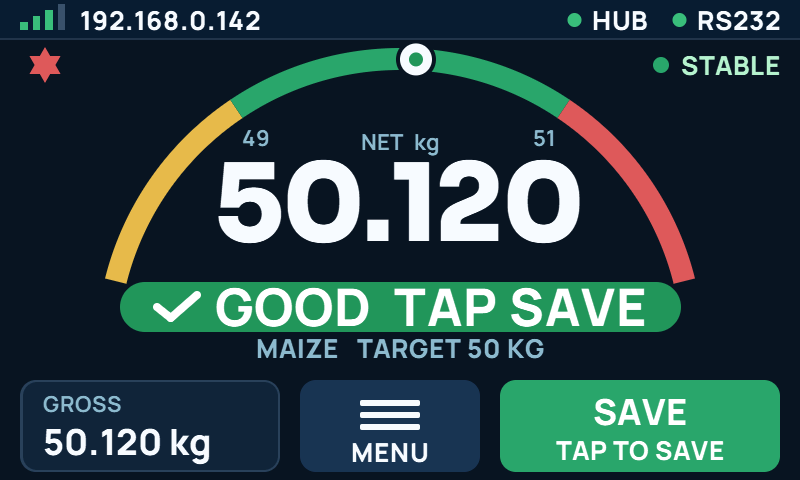
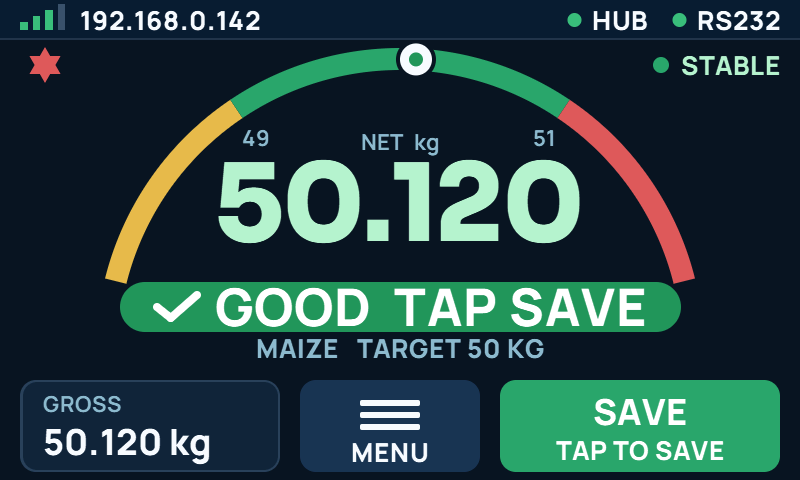
feat(wsoft): light mode in the brand colours; the dial's weight takes its zone tint
Rhyno, 22 Nov 2026. Light theme from the Weighsoft brand palette (Paper,
Bunting, Slate, Sky-200, the reserved status colours); the status bar is
Bunting on the light screen. Notice bands use the zone fill and its ink,
so white letters sit on the brand amber. Dark screens are unchanged.

Claude-Session: https://claude.ai/code/session_017CMFYso2TL2A6k5GrQCT9v

Changed region(s): [[0.25, 0.3125, 0.75, 0.5312]]

diff --git a/interface/src/project/wsoft/gen/wsoftScreen.js b/interface/src/project/wsoft/gen/wsoftScreen.js
@@ -105,14 +105,19 @@ const WsoftUi = (() => {
       ok: '#2fa46c', ok_ink: '#b7f0cd', wait: '#e2b84a', wait_ink: '#f3d48a', bad: '#dc5a5a', bad_ink: '#ffb4b4',
       chip_ok: mixHex('#0b1620', '#2fa46c', 0.18), chip_bad: mixHex('#0b1620', '#dc5a5a', 0.18),
       accent: '#2596be', btn: '#1e3654', btn_ink: '#f5f8fa', stop: '#c94545', pointer: '#f5f8fa',
-      z_low: '#e2b84a', z_low_ink: '#1a2a33', z_ok: '#23965f', z_ok_ink: '#ffffff', z_high: '#c94545', z_high_ink: '#ffffff' },
-    light: { bg: '#eef2f5', panel: '#ffffff', line: '#b4c0c8', ink: '#1a2a33', soft: '#4a6570',
-      ok: '#15a34a', ok_ink: '#14532d', wait: '#e0a021', wait_ink: '#7a4d00', bad: '#dc2626', bad_ink: '#7f1d1d',
-      chip_ok: mixHex('#eef2f5', '#15a34a', 0.18), chip_bad: mixHex('#eef2f5', '#dc2626', 0.18),
-      accent: '#176685', btn: '#d3dce3', btn_ink: '#1a2a33', stop: '#dc2626', pointer: '#0f1e33',
-      z_low: '#e9b227', z_low_ink: '#1a2a33', z_ok: '#15a34a', z_ok_ink: '#ffffff', z_high: '#dc2626', z_high_ink: '#ffffff' },
+      z_low: '#e2b84a', z_low_ink: '#1a2a33', z_ok: '#23965f', z_ok_ink: '#ffffff', z_high: '#c94545', z_high_ink: '#ffffff',
+      bar: '#0f1e33', bar_line: '#24354d' },
+    // Light mode follows the Weighsoft brand palette (Rhyno, 22 Nov 2026; repo-review brand.md):
+    // Paper ground, white cards, Bunting ink, Slate second ink, Line dividers, Sky-200 buttons,
+    // Curious Deep accent, and the reserved status colours with their tints.
+    light: { bg: '#F7F8FC', panel: '#FFFFFF', line: '#DCDAE8', ink: '#1B1446', soft: '#4A4568',
+      ok: '#15803D', ok_ink: '#14532d', wait: '#B45309', wait_ink: '#7a3c06', bad: '#B60205', bad_ink: '#7f1d1d',
+      chip_ok: '#DCFCE7', chip_bad: '#FEE2E2',
+      accent: '#1174A8', btn: '#BCE2F5', btn_ink: '#1B1446', stop: '#B60205', pointer: '#1B1446',
+      z_low: '#B45309', z_low_ink: '#ffffff', z_ok: '#15803D', z_ok_ink: '#ffffff', z_high: '#B60205', z_high_ink: '#ffffff',
+      bar: '#1B1446', bar_line: '#27246B' },
   };
-  // The status bar is navy in both modes.
+  // The status bar is dark in both modes (navy, or the brand's Bunting on the light screen): its inks are these.
   const BAR_HEX = { bg: '#0f1e33', line: '#24354d', ink: '#f5f8fa', mute: '#8fb8c8', dim: '#3a506b', ok: '#3dbe78', bad: '#ff8a8a', warn: '#f2c879' };
   const to565 = (o) => Object.fromEntries(Object.entries(o).map(([k, v]) => [k, c565(v)]));
   const THEME = { dark: to565(THEME_HEX.dark), light: to565(THEME_HEX.light) };
@@ -340,18 +345,18 @@ const WsoftUi = (() => {
   // The band over the trade row: the Wi-Fi alert or a save notice. False when there is none.
   function paintSlot(c, m, T) {
     if (m.slot === SLOT_WIFI) {
-      c.rect(6, 22, 308, 40, T.wait, 8);
-      c.text('WI-FI IS OFF', 18, 42, MID, DARK, LEFT);
+      c.rect(6, 22, 308, 40, T.z_low, 8);
+      c.text('WI-FI IS OFF', 18, 42, MID, T.z_low_ink, LEFT);
       c.rect(160, 26, 100, 32, DARK, 6);
       c.text('CONNECT', 210, 42, SMALL, WHITE, CENTER);
       c.rect(266, 26, 42, 32, DARK, 6);
-      c.rect(267.5, 27.5, 39, 29, T.wait, 5);
-      c.text('X', 287, 42, MID, DARK, CENTER);
+      c.rect(267.5, 27.5, 39, 29, T.z_low, 5);
+      c.text('X', 287, 42, MID, T.z_low_ink, CENTER);
       return true;
     }
     if (m.slot !== SLOT_NONE) {
-      const stop = m.slot === SLOT_STOP, ink = stop ? WHITE : DARK;
-      c.rect(6, 22, 308, 40, stop ? T.stop : T.wait, 8);
+      const stop = m.slot === SLOT_STOP, ink = stop ? WHITE : T.z_low_ink;
+      c.rect(6, 22, 308, 40, stop ? T.stop : T.z_low, 8);
       if (c.width(m.slot_title, BIG) <= 292) c.text(m.slot_title, 160, 34, BIG, ink, CENTER);
       else c.text(c.fit(m.slot_title, MID, 296), 160, 34, MID, ink, CENTER);
       c.text(c.fit(m.slot_detail, SMALL, 296), 160, 53, SMALL, ink, CENTER);
@@ -647,7 +652,9 @@ const WsoftUi = (() => {
     c.rect(0, 62, 320, 60, T.bg, 0);
     paintDial(c, m, T);
     c.text(m.label + '  ' + m.unit, 160, 71, TINY, T.soft, CENTER);
-    c.text(m.weight, 160, 100, c.width(m.weight, HERO) <= 200 ? HERO : BIG, m.live ? T.ink : T.soft, CENTER);
+    // The number takes a soft tint of its zone (Rhyno, 22 Nov 2026).
+    const ink = !m.live ? T.soft : m.zone === ZONE_LOW ? T.wait_ink : m.zone === ZONE_OK ? T.ok_ink : m.zone === ZONE_HIGH ? T.bad_ink : T.ink;
+    c.text(m.weight, 160, 100, c.width(m.weight, HERO) <= 200 ? HERO : BIG, ink, CENTER);
   }
 
   function paintHiloDial(c, m, T) {
@@ -759,7 +766,7 @@ const WsoftUi = (() => {
     c.clip(ROWS[row][0], ROWS[row][1]);
     if (row === ROW_BAR) {
       if (style === STYLE_COLOUR && m.zone !== ZONE_NONE) { const bg = colourSet(m, T).bar; paintBar(c, m, bg, bg); }
-      else paintBar(c, m, BAR.bg, BAR.line);
+      else paintBar(c, m, T.bar, T.bar_line);
     } else if (row === ROW_TOP) {
       if (style === STYLE_COLOUR) paintTopColour(c, m, T); else if (style === STYLE_DIAL) paintTopDial(c, m, T); else paintTop(c, m, T);
     } else if (row === ROW_WEIGHT) {
@@ -967,6 +974,8 @@ const WsoftUi = (() => {
     ['Full Colour, saved', 'DONE, and take it off.', state({ style: STYLE_COLOUR, save: { recent: { result: 'SAVED', seq: 8 } }, waiting: 'ALREADY' })],
     ['Dial, saved', 'DONE, and take it off.', state({ style: STYLE_DIAL, save: { recent: { result: 'SAVED', seq: 8 } }, waiting: 'ALREADY' })],
     ['Dial, Auto save off', 'GOOD, and tap SAVE.', state({ style: STYLE_DIAL, save: { auto: false } })],
+    ['Light mode, too low with a notice', 'The brand colours: the amber band and panel carry white letters.', state({ dark: false, gross: 47350, waiting: 'OUT_OF_LIMITS' })],
+    ['Light mode, Wi-Fi drops', 'The alert in the brand amber.', state({ dark: false, wifi: { up: false } })],
     ['Dial, six figures', 'A long weight drops to the smaller letters.', state({ style: STYLE_DIAL, gross: 982760, decimals: 0, product: { name: 'Maize', low: 980000, target: 982000, high: 984000 } })],
   ];
 

diff --git a/tools/wsoft-ui/ref.js b/tools/wsoft-ui/ref.js
@@ -103,14 +103,19 @@ const WsoftUi = (() => {
       ok: '#2fa46c', ok_ink: '#b7f0cd', wait: '#e2b84a', wait_ink: '#f3d48a', bad: '#dc5a5a', bad_ink: '#ffb4b4',
       chip_ok: mixHex('#0b1620', '#2fa46c', 0.18), chip_bad: mixHex('#0b1620', '#dc5a5a', 0.18),
       accent: '#2596be', btn: '#1e3654', btn_ink: '#f5f8fa', stop: '#c94545', pointer: '#f5f8fa',
-      z_low: '#e2b84a', z_low_ink: '#1a2a33', z_ok: '#23965f', z_ok_ink: '#ffffff', z_high: '#c94545', z_high_ink: '#ffffff' },
-    light: { bg: '#eef2f5', panel: '#ffffff', line: '#b4c0c8', ink: '#1a2a33', soft: '#4a6570',
-      ok: '#15a34a', ok_ink: '#14532d', wait: '#e0a021', wait_ink: '#7a4d00', bad: '#dc2626', bad_ink: '#7f1d1d',
-      chip_ok: mixHex('#eef2f5', '#15a34a', 0.18), chip_bad: mixHex('#eef2f5', '#dc2626', 0.18),
-      accent: '#176685', btn: '#d3dce3', btn_ink: '#1a2a33', stop: '#dc2626', pointer: '#0f1e33',
-      z_low: '#e9b227', z_low_ink: '#1a2a33', z_ok: '#15a34a', z_ok_ink: '#ffffff', z_high: '#dc2626', z_high_ink: '#ffffff' },
+      z_low: '#e2b84a', z_low_ink: '#1a2a33', z_ok: '#23965f', z_ok_ink: '#ffffff', z_high: '#c94545', z_high_ink: '#ffffff',
+      bar: '#0f1e33', bar_line: '#24354d' },
+    // Light mode follows the Weighsoft brand palette (Rhyno, 22 Nov 2026; repo-review brand.md):
+    // Paper ground, white cards, Bunting ink, Slate second ink, Line dividers, Sky-200 buttons,
+    // Curious Deep accent, and the reserved status colours with their tints.
+    light: { bg: '#F7F8FC', panel: '#FFFFFF', line: '#DCDAE8', ink: '#1B1446', soft: '#4A4568',
+      ok: '#15803D', ok_ink: '#14532d', wait: '#B45309', wait_ink: '#7a3c06', bad: '#B60205', bad_ink: '#7f1d1d',
+      chip_ok: '#DCFCE7', chip_bad: '#FEE2E2',
+      accent: '#1174A8', btn: '#BCE2F5', btn_ink: '#1B1446', stop: '#B60205', pointer: '#1B1446',
+      z_low: '#B45309', z_low_ink: '#ffffff', z_ok: '#15803D', z_ok_ink: '#ffffff', z_high: '#B60205', z_high_ink: '#ffffff',
+      bar: '#1B1446', bar_line: '#27246B' },
   };
-  // The status bar is navy in both modes.
+  // The status bar is dark in both modes (navy, or the brand's Bunting on the light screen): its inks are these.
   const BAR_HEX = { bg: '#0f1e33', line: '#24354d', ink: '#f5f8fa', mute: '#8fb8c8', dim: '#3a506b', ok: '#3dbe78', bad: '#ff8a8a', warn: '#f2c879' };
   const to565 = (o) => Object.fromEntries(Object.entries(o).map(([k, v]) => [k, c565(v)]));
   const THEME = { dark: to565(THEME_HEX.dark), light: to565(THEME_HEX.light) };
@@ -338,18 +343,18 @@ const WsoftUi = (() => {
   // The band over the trade row: the Wi-Fi alert or a save notice. False when there is none.
   function paintSlot(c, m, T) {
     if (m.slot === SLOT_WIFI) {
-      c.rect(6, 22, 308, 40, T.wait, 8);
-      c.text('WI-FI IS OFF', 18, 42, MID, DARK, LEFT);
+      c.rect(6, 22, 308, 40, T.z_low, 8);
+      c.text('WI-FI IS OFF', 18, 42, MID, T.z_low_ink, LEFT);
       c.rect(160, 26, 100, 32, DARK, 6);
       c.text('CONNECT', 210, 42, SMALL, WHITE, CENTER);
       c.rect(266, 26, 42, 32, DARK, 6);
-      c.rect(267.5, 27.5, 39, 29, T.wait, 5);
-      c.text('X', 287, 42, MID, DARK, CENTER);
+      c.rect(267.5, 27.5, 39, 29, T.z_low, 5);
+      c.text('X', 287, 42, MID, T.z_low_ink, CENTER);
       return true;
     }
     if (m.slot !== SLOT_NONE) {
-      const stop = m.slot === SLOT_STOP, ink = stop ? WHITE : DARK;
-      c.rect(6, 22, 308, 40, stop ? T.stop : T.wait, 8);
+      const stop = m.slot === SLOT_STOP, ink = stop ? WHITE : T.z_low_ink;
+      c.rect(6, 22, 308, 40, stop ? T.stop : T.z_low, 8);
       if (c.width(m.slot_title, BIG) <= 292) c.text(m.slot_title, 160, 34, BIG, ink, CENTER);
       else c.text(c.fit(m.slot_title, MID, 296), 160, 34, MID, ink, CENTER);
       c.text(c.fit(m.slot_detail, SMALL, 296), 160, 53, SMALL, ink, CENTER);
@@ -645,7 +650,9 @@ const WsoftUi = (() => {
     c.rect(0, 62, 320, 60, T.bg, 0);
     paintDial(c, m, T);
     c.text(m.label + '  ' + m.unit, 160, 71, TINY, T.soft, CENTER);
-    c.text(m.weight, 160, 100, c.width(m.weight, HERO) <= 200 ? HERO : BIG, m.live ? T.ink : T.soft, CENTER);
+    // The number takes a soft tint of its zone (Rhyno, 22 Nov 2026).
+    const ink = !m.live ? T.soft : m.zone === ZONE_LOW ? T.wait_ink : m.zone === ZONE_OK ? T.ok_ink : m.zone === ZONE_HIGH ? T.bad_ink : T.ink;
+    c.text(m.weight, 160, 100, c.width(m.weight, HERO) <= 200 ? HERO : BIG, ink, CENTER);
   }
 
   function paintHiloDial(c, m, T) {
@@ -757,7 +764,7 @@ const WsoftUi = (() => {
     c.clip(ROWS[row][0], ROWS[row][1]);
     if (row === ROW_BAR) {
       if (style === STYLE_COLOUR && m.zone !== ZONE_NONE) { const bg = colourSet(m, T).bar; paintBar(c, m, bg, bg); }
-      else paintBar(c, m, BAR.bg, BAR.line);
+      else paintBar(c, m, T.bar, T.bar_line);
     } else if (row === ROW_TOP) {
       if (style === STYLE_COLOUR) paintTopColour(c, m, T); else if (style === STYLE_DIAL) paintTopDial(c, m, T); else paintTop(c, m, T);
     } else if (row === ROW_WEIGHT) {
@@ -965,6 +972,8 @@ const WsoftUi = (() => {
     ['Full Colour, saved', 'DONE, and take it off.', state({ style: STYLE_COLOUR, save: { recent: { result: 'SAVED', seq: 8 } }, waiting: 'ALREADY' })],
     ['Dial, saved', 'DONE, and take it off.', state({ style: STYLE_DIAL, save: { recent: { result: 'SAVED', seq: 8 } }, waiting: 'ALREADY' })],
     ['Dial, Auto save off', 'GOOD, and tap SAVE.', state({ style: STYLE_DIAL, save: { auto: false } })],
+    ['Light mode, too low with a notice', 'The brand colours: the amber band and panel carry white letters.', state({ dark: false, gross: 47350, waiting: 'OUT_OF_LIMITS' })],
+    ['Light mode, Wi-Fi drops', 'The alert in the brand amber.', state({ dark: false, wifi: { up: false } })],
     ['Dial, six figures', 'A long weight drops to the smaller letters.', state({ style: STYLE_DIAL, gross: 982760, decimals: 0, product: { name: 'Maize', low: 980000, target: 982000, high: 984000 } })],
   ];
 

diff --git a/lib/wsoft_core/src/gen/wsoft_ui_presets.h b/lib/wsoft_core/src/gen/wsoft_ui_presets.h
@@ -8,7 +8,7 @@
 
 #define WSOFT_UI_PRESET_SET(field, text) strncpy(field, text, sizeof(field) - 1)
 
-static const int WSOFT_UI_PRESET_COUNT = 51;
+static const int WSOFT_UI_PRESET_COUNT = 53;
 
 // Fills *m with test screen n. False when there is no such screen.
 inline bool wsoft_ui_preset(int n, WsoftUiModel *m) {
@@ -2808,7 +2808,112 @@ inline bool wsoft_ui_preset(int n, WsoftUiModel *m) {
       WSOFT_UI_PRESET_SET(m->address, "192.168.4.1");
       WSOFT_UI_PRESET_SET(m->ap_name, "Weighsoft-Esp-NEW");
       return true;
-    case 50:  // Dial, six figures
+    case 50:  // Light mode, too low with a notice
+      m->wifi_up = true;
+      m->wifi_bars = 3;
+      WSOFT_UI_PRESET_SET(m->ip, "192.168.0.142");
+      WSOFT_UI_PRESET_SET(m->hub, "HUB");
+      m->hub_tone = 1;
+      WSOFT_UI_PRESET_SET(m->link, "RS232");
+      m->link_tone = 1;
+      m->slot = 2;
+      WSOFT_UI_PRESET_SET(m->slot_title, "OUTSIDE HI-LO LIMITS");
+      WSOFT_UI_PRESET_SET(m->slot_detail, "Tap SAVE twice to save anyway");
+      WSOFT_UI_PRESET_SET(m->steady, "STABLE");
+      m->steady_tone = 1;
+      WSOFT_UI_PRESET_SET(m->audit, "AUDIT 0");
+      WSOFT_UI_PRESET_SET(m->label, "NET");
+      m->live = true;
+      WSOFT_UI_PRESET_SET(m->weight, "47.350");
+      WSOFT_UI_PRESET_SET(m->unit, "kg");
+      m->zone = 1;
+      m->product_on = true;
+      WSOFT_UI_PRESET_SET(m->word, "TOO LOW");
+      m->word_tone = 2;
+      WSOFT_UI_PRESET_SET(m->product, "MAIZE");
+      WSOFT_UI_PRESET_SET(m->target, "TARGET 50 KG");
+      WSOFT_UI_PRESET_SET(m->low, "49");
+      WSOFT_UI_PRESET_SET(m->high, "51");
+      WSOFT_UI_PRESET_SET(m->gross, "47.350 kg");
+      WSOFT_UI_PRESET_SET(m->save_line, "AUTO SAVE ON");
+      m->save_look = 1;
+      WSOFT_UI_PRESET_SET(m->hint, "ADD MORE");
+      m->tiles[0].id = WSOFT_UI_TILE_APPROVAL;
+      m->tiles[0].look = 0;
+      WSOFT_UI_PRESET_SET(m->tiles[0].caption, "APPROVAL");
+      WSOFT_UI_PRESET_SET(m->tiles[0].value, "OFF");
+      m->tiles[1].id = WSOFT_UI_TILE_AUTO;
+      m->tiles[1].look = 1;
+      WSOFT_UI_PRESET_SET(m->tiles[1].caption, "AUTO SAVE");
+      WSOFT_UI_PRESET_SET(m->tiles[1].value, "ON");
+      m->tiles[2].id = WSOFT_UI_TILE_PRODUCT;
+      m->tiles[2].look = 1;
+      WSOFT_UI_PRESET_SET(m->tiles[2].caption, "PRODUCT");
+      WSOFT_UI_PRESET_SET(m->tiles[2].value, "MAIZE");
+      m->tiles[3].id = WSOFT_UI_TILE_THEME;
+      m->tiles[3].look = 0;
+      WSOFT_UI_PRESET_SET(m->tiles[3].caption, "SCREEN");
+      WSOFT_UI_PRESET_SET(m->tiles[3].value, "LIGHT");
+      m->tiles[4].id = WSOFT_UI_TILE_WIFI;
+      m->tiles[4].look = 0;
+      WSOFT_UI_PRESET_SET(m->tiles[4].caption, "WI-FI");
+      WSOFT_UI_PRESET_SET(m->tiles[4].value, "192.168.0.142");
+      m->tile_count = 5;
+      WSOFT_UI_PRESET_SET(m->address, "192.168.4.1");
+      WSOFT_UI_PRESET_SET(m->ap_name, "Weighsoft-Esp-NEW");
+      return true;
+    case 51:  // Light mode, Wi-Fi drops
+      WSOFT_UI_PRESET_SET(m->ip, "NO WI-FI");
+      WSOFT_UI_PRESET_SET(m->hub, "HUB");
+      m->hub_tone = 3;
+      WSOFT_UI_PRESET_SET(m->link, "RS232");
+      m->link_tone = 1;
+      m->slot = 3;
+      WSOFT_UI_PRESET_SET(m->steady, "STABLE");
+      m->steady_tone = 1;
+      WSOFT_UI_PRESET_SET(m->audit, "AUDIT 0");
+      WSOFT_UI_PRESET_SET(m->label, "NET");
+      m->live = true;
+      WSOFT_UI_PRESET_SET(m->weight, "50.120");
+      WSOFT_UI_PRESET_SET(m->unit, "kg");
+      m->zone = 2;
+      m->product_on = true;
+      WSOFT_UI_PRESET_SET(m->word, "OK");
+      m->word_tone = 1;
+      WSOFT_UI_PRESET_SET(m->product, "MAIZE");
+      WSOFT_UI_PRESET_SET(m->target, "TARGET 50 KG");
+      WSOFT_UI_PRESET_SET(m->low, "49");
+      WSOFT_UI_PRESET_SET(m->high, "51");
+      m->pointer = 527;
+      WSOFT_UI_PRESET_SET(m->gross, "50.120 kg");
+      WSOFT_UI_PRESET_SET(m->save_line, "AUTO SAVE ON");
+      m->save_look = 1;
+      WSOFT_UI_PRESET_SET(m->hint, "HOLD STILL");
+      m->tiles[0].id = WSOFT_UI_TILE_APPROVAL;
+      m->tiles[0].look = 0;
+      WSOFT_UI_PRESET_SET(m->tiles[0].caption, "APPROVAL");
+      WSOFT_UI_PRESET_SET(m->tiles[0].value, "OFF");
+      m->tiles[1].id = WSOFT_UI_TILE_AUTO;
+      m->tiles[1].look = 1;
+      WSOFT_UI_PRESET_SET(m->tiles[1].caption, "AUTO SAVE");
+      WSOFT_UI_PRESET_SET(m->tiles[1].value, "ON");
+      m->tiles[2].id = WSOFT_UI_TILE_PRODUCT;
+      m->tiles[2].look = 1;
+      WSOFT_UI_PRESET_SET(m->tiles[2].caption, "PRODUCT");
+      WSOFT_UI_PRESET_SET(m->tiles[2].value, "MAIZE");
+      m->tiles[3].id = WSOFT_UI_TILE_THEME;
+      m->tiles[3].look = 0;
+      WSOFT_UI_PRESET_SET(m->tiles[3].caption, "SCREEN");
+      WSOFT_UI_PRESET_SET(m->tiles[3].value, "LIGHT");
+      m->tiles[4].id = WSOFT_UI_TILE_WIFI;
+      m->tiles[4].look = 0;
+      WSOFT_UI_PRESET_SET(m->tiles[4].caption, "WI-FI");
+      WSOFT_UI_PRESET_SET(m->tiles[4].value, "OFF");
+      m->tile_count = 5;
+      WSOFT_UI_PRESET_SET(m->address, "192.168.4.1");
+      WSOFT_UI_PRESET_SET(m->ap_name, "Weighsoft-Esp-NEW");
+      return true;
+    case 52:  // Dial, six figures
       m->dark = true;
       m->style = 2;
       m->wifi_up = true;

diff --git a/lib/wsoft_core/src/wsoft_ui_paint.cpp b/lib/wsoft_core/src/wsoft_ui_paint.cpp
@@ -92,19 +92,19 @@ const char *wsoft_ui_plate_line(const WsoftCanvas &c, const WsoftUiModel &m, dou
 static bool paint_slot(WsoftCanvas &c, const WsoftUiModel &m, const Theme &T) {
   char cut[CUT_SIZE];
   if (m.slot == WSOFT_UI_SLOT_WIFI) {
-    c.rect(6, 22, 308, 40, T.wait, 8);
-    c.text("WI-FI IS OFF", 18, 42, MID, DARK);
+    c.rect(6, 22, 308, 40, T.z_low, 8);
+    c.text("WI-FI IS OFF", 18, 42, MID, T.z_low_ink);
     c.rect(160, 26, 100, 32, DARK, 6);
     c.text("CONNECT", 210, 42, SMALL, WHITE, WSOFT_CENTER);
     c.rect(266, 26, 42, 32, DARK, 6);
-    c.rect(267.5, 27.5, 39, 29, T.wait, 5);
-    c.text("X", 287, 42, MID, DARK, WSOFT_CENTER);
+    c.rect(267.5, 27.5, 39, 29, T.z_low, 5);
+    c.text("X", 287, 42, MID, T.z_low_ink, WSOFT_CENTER);
     return true;
   }
   if (m.slot != WSOFT_UI_SLOT_NONE) {
     bool stop = m.slot == WSOFT_UI_SLOT_STOP;
-    uint16_t ink = stop ? WHITE : DARK;
-    c.rect(6, 22, 308, 40, stop ? T.stop : T.wait, 8);
+    uint16_t ink = stop ? WHITE : T.z_low_ink;
+    c.rect(6, 22, 308, 40, stop ? T.stop : T.z_low, 8);
     if (c.width(m.slot_title, BIG) <= 292) c.text(m.slot_title, 160, 34, BIG, ink, WSOFT_CENTER);
     else c.text(c.fit(m.slot_title, MID, 296, cut, sizeof cut), 160, 34, MID, ink, WSOFT_CENTER);
     c.text(c.fit(m.slot_detail, SMALL, 296, cut, sizeof cut), 160, 53, SMALL, ink, WSOFT_CENTER);
@@ -463,7 +463,13 @@ static void paint_weight_dial(WsoftCanvas &c, const WsoftUiModel &m, const Theme
   paint_dial(c, m, T);
   snprintf(line, sizeof line, "%s  %s", m.label, m.unit);
   c.text(line, 160, 71, TINY, T.soft, WSOFT_CENTER);
-  c.text(m.weight, 160, 100, c.width(m.weight, HERO) <= 200 ? HERO : BIG, m.live ? T.ink : T.soft, WSOFT_CENTER);
+  // The number takes a soft tint of its zone (Rhyno, 22 Nov 2026).
+  uint16_t ink = !m.live                        ? T.soft
+                 : m.zone == WSOFT_UI_ZONE_LOW  ? T.wait_ink
+                 : m.zone == WSOFT_UI_ZONE_OK   ? T.ok_ink
+                 : m.zone == WSOFT_UI_ZONE_HIGH ? T.bad_ink
+                                                : T.ink;
+  c.text(m.weight, 160, 100, c.width(m.weight, HERO) <= 200 ? HERO : BIG, ink, WSOFT_CENTER);
 }
 
 static void paint_hilo_dial(WsoftCanvas &c, const WsoftUiModel &m, const Theme &T) {
@@ -662,7 +668,7 @@ void wsoft_ui_paint_row(WsoftCanvas &c, const WsoftUiModel &m, int row) {
         uint16_t bg = colour_set(m, T).bar;
         paint_bar(c, m, bg, bg);
       } else {
-        paint_bar(c, m, BAR.bg, BAR.line);
+        paint_bar(c, m, T.bar, T.bar_line);
       }
       break;
     case WSOFT_UI_ROW_TOP: colour ? paint_top_colour(c, m, T) : dial ? paint_top_dial(c, m, T) : paint_top(c, m, T); break;

diff --git a/test/test_wsoft_ui/golden.h b/test/test_wsoft_ui/golden.h
@@ -4,5 +4,5 @@
 
 #include <stdint.h>
 
-static const uint32_t GOLDEN_1X[] = {0x2EED3E39, 0xCB8630B6, 0x13C357CE, 0x27D81C90, 0x0CD5396A, 0xB3EDC79C, 0x4042B08A, 0x0169D3E2, 0x91E90C57, 0xFDF178CC, 0x9669DC47, 0x26D96EE3, 0x205B387A, 0xC8444119, 0x706241EF, 0xAD93FFB4, 0x1E099634, 0xA7C846C0, 0x29F2D94F, 0x217565AE, 0xFFB61478, 0xCE17ED72, 0x29601460, 0x91CC4766, 0xC81A18F3, 0x2245DA02, 0xE71C77E8, 0x590DC4BD, 0xCE47E2A6, 0x82320FD2, 0x658130E3, 0xEADEA954, 0x9AA4A263, 0xBC305457, 0x456D568D, 0x8A927197, 0x767D2E94, 0xBD04EBC5, 0xE1FE72FF, 0x94547FB9, 0x319E5645, 0x29D528D4, 0x5386201A, 0xFBD72C38, 0xD09FC023, 0xC069DA3D, 0x2616B131, 0x9A8BBD16, 0xCB1072BA, 0xA1F6D74D, 0x6EED9E62};
-static const uint32_t GOLDEN_2X[] = {0x2CB597FA, 0xEE8355B3, 0x3DF3B986, 0x2F7B4FCE, 0x561022F2, 0x8AF27F6C, 0x087B2AE7, 0x6FA89258, 0x856FCB6E, 0x328374DB, 0x0C066F48, 0x8241D678, 0xCC0B4B47, 0x1A5164EE, 0x563032EB, 0xE434043F, 0x63F98DCA, 0x6F641277, 0x9B7D4A8C, 0x3944787F, 0x54E248B5, 0x40334849, 0x7E49473E, 0x69F2874B, 0x1A43A21B, 0xA003525E, 0xC5DD8E58, 0x180C86C7, 0x7E5B30C2, 0x2D712498, 0x8531BFBF, 0xED76E63D, 0xE59E61EB, 0x6574572C, 0xA4C22D35, 0x92B6A39A, 0xDDCA872E, 0x9E6B1D74, 0xF857661C, 0x04E8C8E6, 0xB9BA132E, 0x2C2655A6, 0x81FF971A, 0x605D8B1D, 0x0C1DE447, 0x102E4155, 0xCF5C8B94, 0xF512C02C, 0x34584925, 0x969BE47C, 0xE5ABB5FC};
+static const uint32_t GOLDEN_1X[] = {0x2EED3E39, 0xCB8630B6, 0x13C357CE, 0x99D5FF4C, 0x0CD5396A, 0xB3EDC79C, 0x4042B08A, 0x0169D3E2, 0x91E90C57, 0xFDF178CC, 0x9669DC47, 0x26D96EE3, 0x205B387A, 0xC8444119, 0x6395DFC4, 0x08ECE712, 0x1E099634, 0xA7C846C0, 0x29F2D94F, 0x217565AE, 0xFFB61478, 0xCE17ED72, 0x29601460, 0x91CC4766, 0xC81A18F3, 0x2245DA02, 0x582208A9, 0x590DC4BD, 0xCE47E2A6, 0x82320FD2, 0x658130E3, 0xEADEA954, 0x9AA4A263, 0xBC305457, 0x456D568D, 0x8A927197, 0x767D2E94, 0xBD04EBC5, 0x8A6FF48C, 0x97CC09C8, 0x55A34D7F, 0x2A4D5EA5, 0x3817A669, 0xFBD72C38, 0xD09FC023, 0xCDD0EA2C, 0x06F4267C, 0x9A8BBD16, 0xA081F4C9, 0xCA67513E, 0xC856CA83, 0xDC6BB829, 0xCD87CF7F};
+static const uint32_t GOLDEN_2X[] = {0x2CB597FA, 0xEE8355B3, 0x3DF3B986, 0xF47CB43C, 0x561022F2, 0x8AF27F6C, 0x087B2AE7, 0x6FA89258, 0x856FCB6E, 0x328374DB, 0x0C066F48, 0x8241D678, 0xCC0B4B47, 0x1A5164EE, 0x54DC94B7, 0x5FC6908B, 0x63F98DCA, 0x6F641277, 0x9B7D4A8C, 0x3944787F, 0x54E248B5, 0x40334849, 0x7E49473E, 0x69F2874B, 0x1A43A21B, 0xA003525E, 0xF89ABE7D, 0x180C86C7, 0x7E5B30C2, 0x2D712498, 0x8531BFBF, 0xED76E63D, 0xE59E61EB, 0x6574572C, 0xA4C22D35, 0x92B6A39A, 0xDDCA872E, 0x9E6B1D74, 0x2357EC97, 0x31DC200B, 0x091BCA9E, 0x1912BD4B, 0x5AFF1D91, 0x605D8B1D, 0x0C1DE447, 0xCD0E739D, 0x4114731D, 0xF512C02C, 0xEF58C3AE, 0x4D9B6EF7, 0x5739C4A3, 0x7852133E, 0xFFE3EF41};

diff --git a/lib/wsoft_core/src/gen/wsoft_ui_colors.h b/lib/wsoft_core/src/gen/wsoft_ui_colors.h
@@ -5,14 +5,14 @@
 #include <stdint.h>
 
 struct WsoftUiTheme {
-  uint16_t bg, panel, line, ink, soft, ok, ok_ink, wait, wait_ink, bad, bad_ink, chip_ok, chip_bad, accent, btn, btn_ink, stop, pointer, z_low, z_low_ink, z_ok, z_ok_ink, z_high, z_high_ink;
+  uint16_t bg, panel, line, ink, soft, ok, ok_ink, wait, wait_ink, bad, bad_ink, chip_ok, chip_bad, accent, btn, btn_ink, stop, pointer, z_low, z_low_ink, z_ok, z_ok_ink, z_high, z_high_ink, bar, bar_line;
 };
 struct WsoftUiBar {
   uint16_t bg, line, ink, mute, dim, ok, bad, warn;
 };
 
-static const WsoftUiTheme WSOFT_UI_DARK = {0x08A4, 0x1127, 0x2A0B, 0xF7DF, 0x8DD9, 0x2D2D, 0xB799, 0xE5C9, 0xF6B1, 0xDACB, 0xFDB6, 0x1185, 0x3105, 0x24B7, 0x19AA, 0xF7DF, 0xCA28, 0xF7DF, 0xE5C9, 0x1946, 0x24AB, 0xFFFF, 0xCA28, 0xFFFF};
-static const WsoftUiTheme WSOFT_UI_LIGHT = {0xEF9E, 0xFFFF, 0xB619, 0x1946, 0x4B2E, 0x1509, 0x1285, 0xE504, 0x7A60, 0xD924, 0x78E3, 0xC73A, 0xEE7A, 0x1330, 0xD6FC, 0x1946, 0xD924, 0x08E6, 0xED84, 0x1946, 0x1509, 0xFFFF, 0xD924, 0xFFFF};
+static const WsoftUiTheme WSOFT_UI_DARK = {0x08A4, 0x1127, 0x2A0B, 0xF7DF, 0x8DD9, 0x2D2D, 0xB799, 0xE5C9, 0xF6B1, 0xDACB, 0xFDB6, 0x1185, 0x3105, 0x24B7, 0x19AA, 0xF7DF, 0xCA28, 0xF7DF, 0xE5C9, 0x1946, 0x24AB, 0xFFFF, 0xCA28, 0xFFFF, 0x08E6, 0x21A9};
+static const WsoftUiTheme WSOFT_UI_LIGHT = {0xF7DF, 0xFFFF, 0xDEDD, 0x18A8, 0x4A2D, 0x1407, 0x1285, 0xB281, 0x79E0, 0xB000, 0x78E3, 0xDFFC, 0xFF1C, 0x13B5, 0xBF1E, 0x18A8, 0xB000, 0x18A8, 0xB281, 0xFFFF, 0x1407, 0xFFFF, 0xB000, 0xFFFF, 0x18A8, 0x212D};
 // The status bar is navy in both modes.
 static const WsoftUiBar WSOFT_UI_BAR = {0x08E6, 0x21A9, 0xF7DF, 0x8DD9, 0x3A8D, 0x3DEF, 0xFC51, 0xF64F};
 static const uint16_t WSOFT_UI_WHITE = 0xFFFF;

diff --git a/docs/WSOFT-SCREEN.md b/docs/WSOFT-SCREEN.md
@@ -68,7 +68,7 @@ three; only what a row draws differs. The menu pages look the same in every look
 |---|---|---|
 | DARK / LIGHT | Classic: the five rows of section 1. The default | `yellow-00` to `yellow-27` |
 | COLOUR | Full Colour: the whole screen takes the colour of the Hi-Lo zone (yellow low, green OK, red high), with a bigger weight and one big line | `yellow-28` to `yellow-37`, `yellow-47` |
-| DIAL | The Hi-Lo bar bent into a gauge over the weight, with a marker that moves along it | `yellow-38` to `yellow-46`, `yellow-48` to `yellow-50` |
+| DIAL | The Hi-Lo bar bent into a gauge over the weight, with a marker that moves along it | `yellow-38` to `yellow-46`, `yellow-48`, `yellow-49`, `yellow-52` |
 
 ![Full Colour](img/wsoft-screen/yellow-29.png) ![Dial](img/wsoft-screen/yellow-39.png)
 
@@ -84,6 +84,10 @@ Both say what to do next to the word (Rhyno, 22 Nov 2026), with an arrow the way
 
 The classic screen keeps its words (TOO LOW, OK, TOO HIGH). The words come from the model's
 `word` and `hint`.
+
+On the Dial the weight takes a soft tint of its zone (yellow, green, red).
+
+Light mode follows the Weighsoft brand palette (Rhyno, 22 Nov 2026; `brand.md` of the repo-review kit): Paper `#F7F8FC` ground, white cards, Bunting `#1B1446` ink and status bar, Slate second ink, Sky-200 buttons, and the brand status colours (success `#15803D`, warning `#B45309`, danger `#B60205`).
 
 Colour and Dial are dark screens. With no Hi-Lo product picked they show a plain dark screen
 with the weight. Two letter sizes were added for them (HUGE: the weight's digits, XL: the

diff --git a/CHANGELOG.md b/CHANGELOG.md
@@ -8,6 +8,8 @@ and this project adheres to [Semantic Versioning](https://semver.org/spec/v2.0.0
 ## [Unreleased]
 
 ### Changed
+- **W-Soft: light mode in the Weighsoft brand colours** (Rhyno, 22 Nov 2026). Paper ground, white
+  cards, Bunting ink and status bar, Sky buttons, brand green, amber and red. Dark mode is unchanged.
 - **W-Soft: one Calibrate page for the junction box and the load cell** (Rhyno, 22 Nov 2026).
   Same look and the same two steps (Zero, Test weight) on RS485 and on an HX711 board; only the
   last step differs (sent to the junction box, or kept on the board). Both ask "Yes, calibrate"
